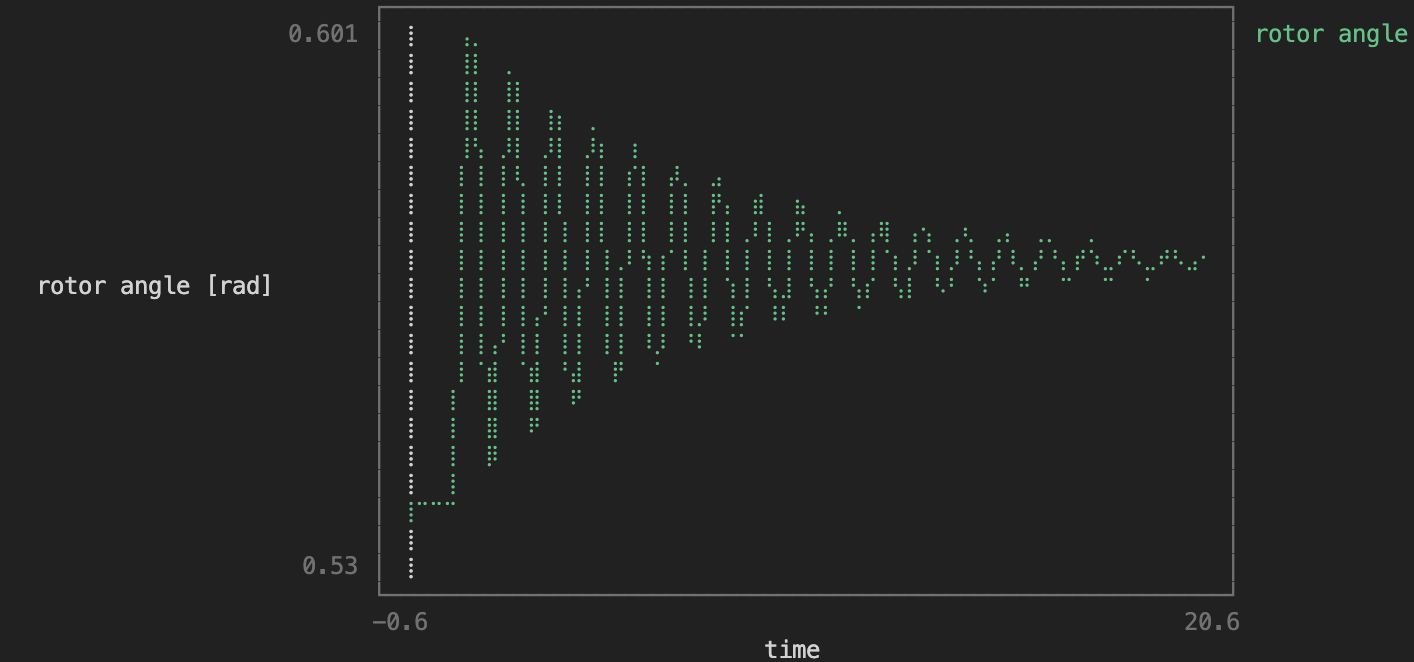
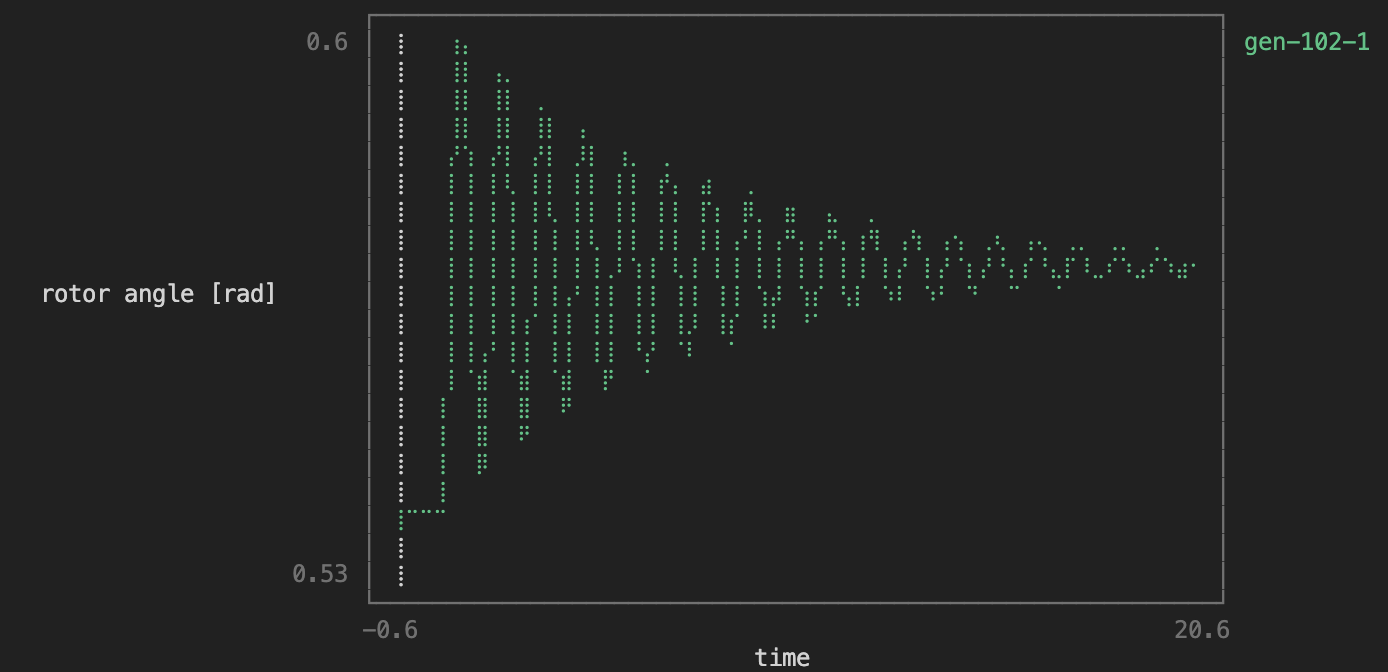
fix labels

Changed region(s): [[0.1859, 0.0, 1.0, 0.9668], [0.031, 0.423, 0.2169, 0.4532], [0.5267, 0.9668, 0.5886, 0.997]]

diff --git a/docs/src/quick_start_guide.md b/docs/src/quick_start_guide.md
@@ -49,7 +49,7 @@ x0_init = get_initial_conditions(sim)
 
 ```@repl quick_start_guide
 angle = get_state_series(sim, ("generator-102-1", :δ));
-plot(angle, xlabel = "time", ylabel = "rotor angle [rad]", label = "rotor angle");
+plot(angle, xlabel = "time", ylabel = "rotor angle [rad]", label = "gen-102-1");
 savefig("f-plot.svg"); nothing # hide
 ```
 
@@ -60,7 +60,7 @@ If you miss PSS/e's plotting aesthetics and want something that resembles that, 
 ```@repl quick_start_guide
 using UnicodePlots
 unicodeplots()
-plot(angle, xlabel = "time", ylabel = "rotor angle [rad]", label = "rotor angle");
+plot(angle, xlabel = "time", ylabel = "rotor angle [rad]", label = "gen-102-1");
 ```
 
 ![plot](assets/unicode.png)
